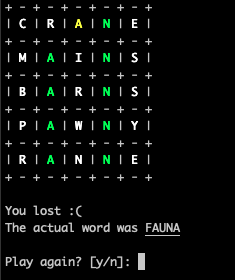
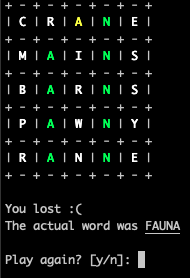
update readme images position and size

diff --git a/README.md b/README.md
@@ -9,13 +9,13 @@
 3. Enjoy!
 
 <p float="left">
-    <img src="readme_images/landing.png" width="440" height="240">
-    <img src="readme_images/try.png" width="280" height="240">
+    <img src="readme_images/landing.png" width="720" height="360">
 </p>
 
 <p float="left">
-    <img src="readme_images/defeat.png" width="300" height="330">
-    <img src="readme_images/victory.png" width="300" height="330">
+    <img src="readme_images/try.png" width="280" height="240">
+    <img src="readme_images/defeat.png" width="240" height="240">
+    <img src="readme_images/victory.png" width="240" height="240">
 </p>
 
 ### Acknowledgements
